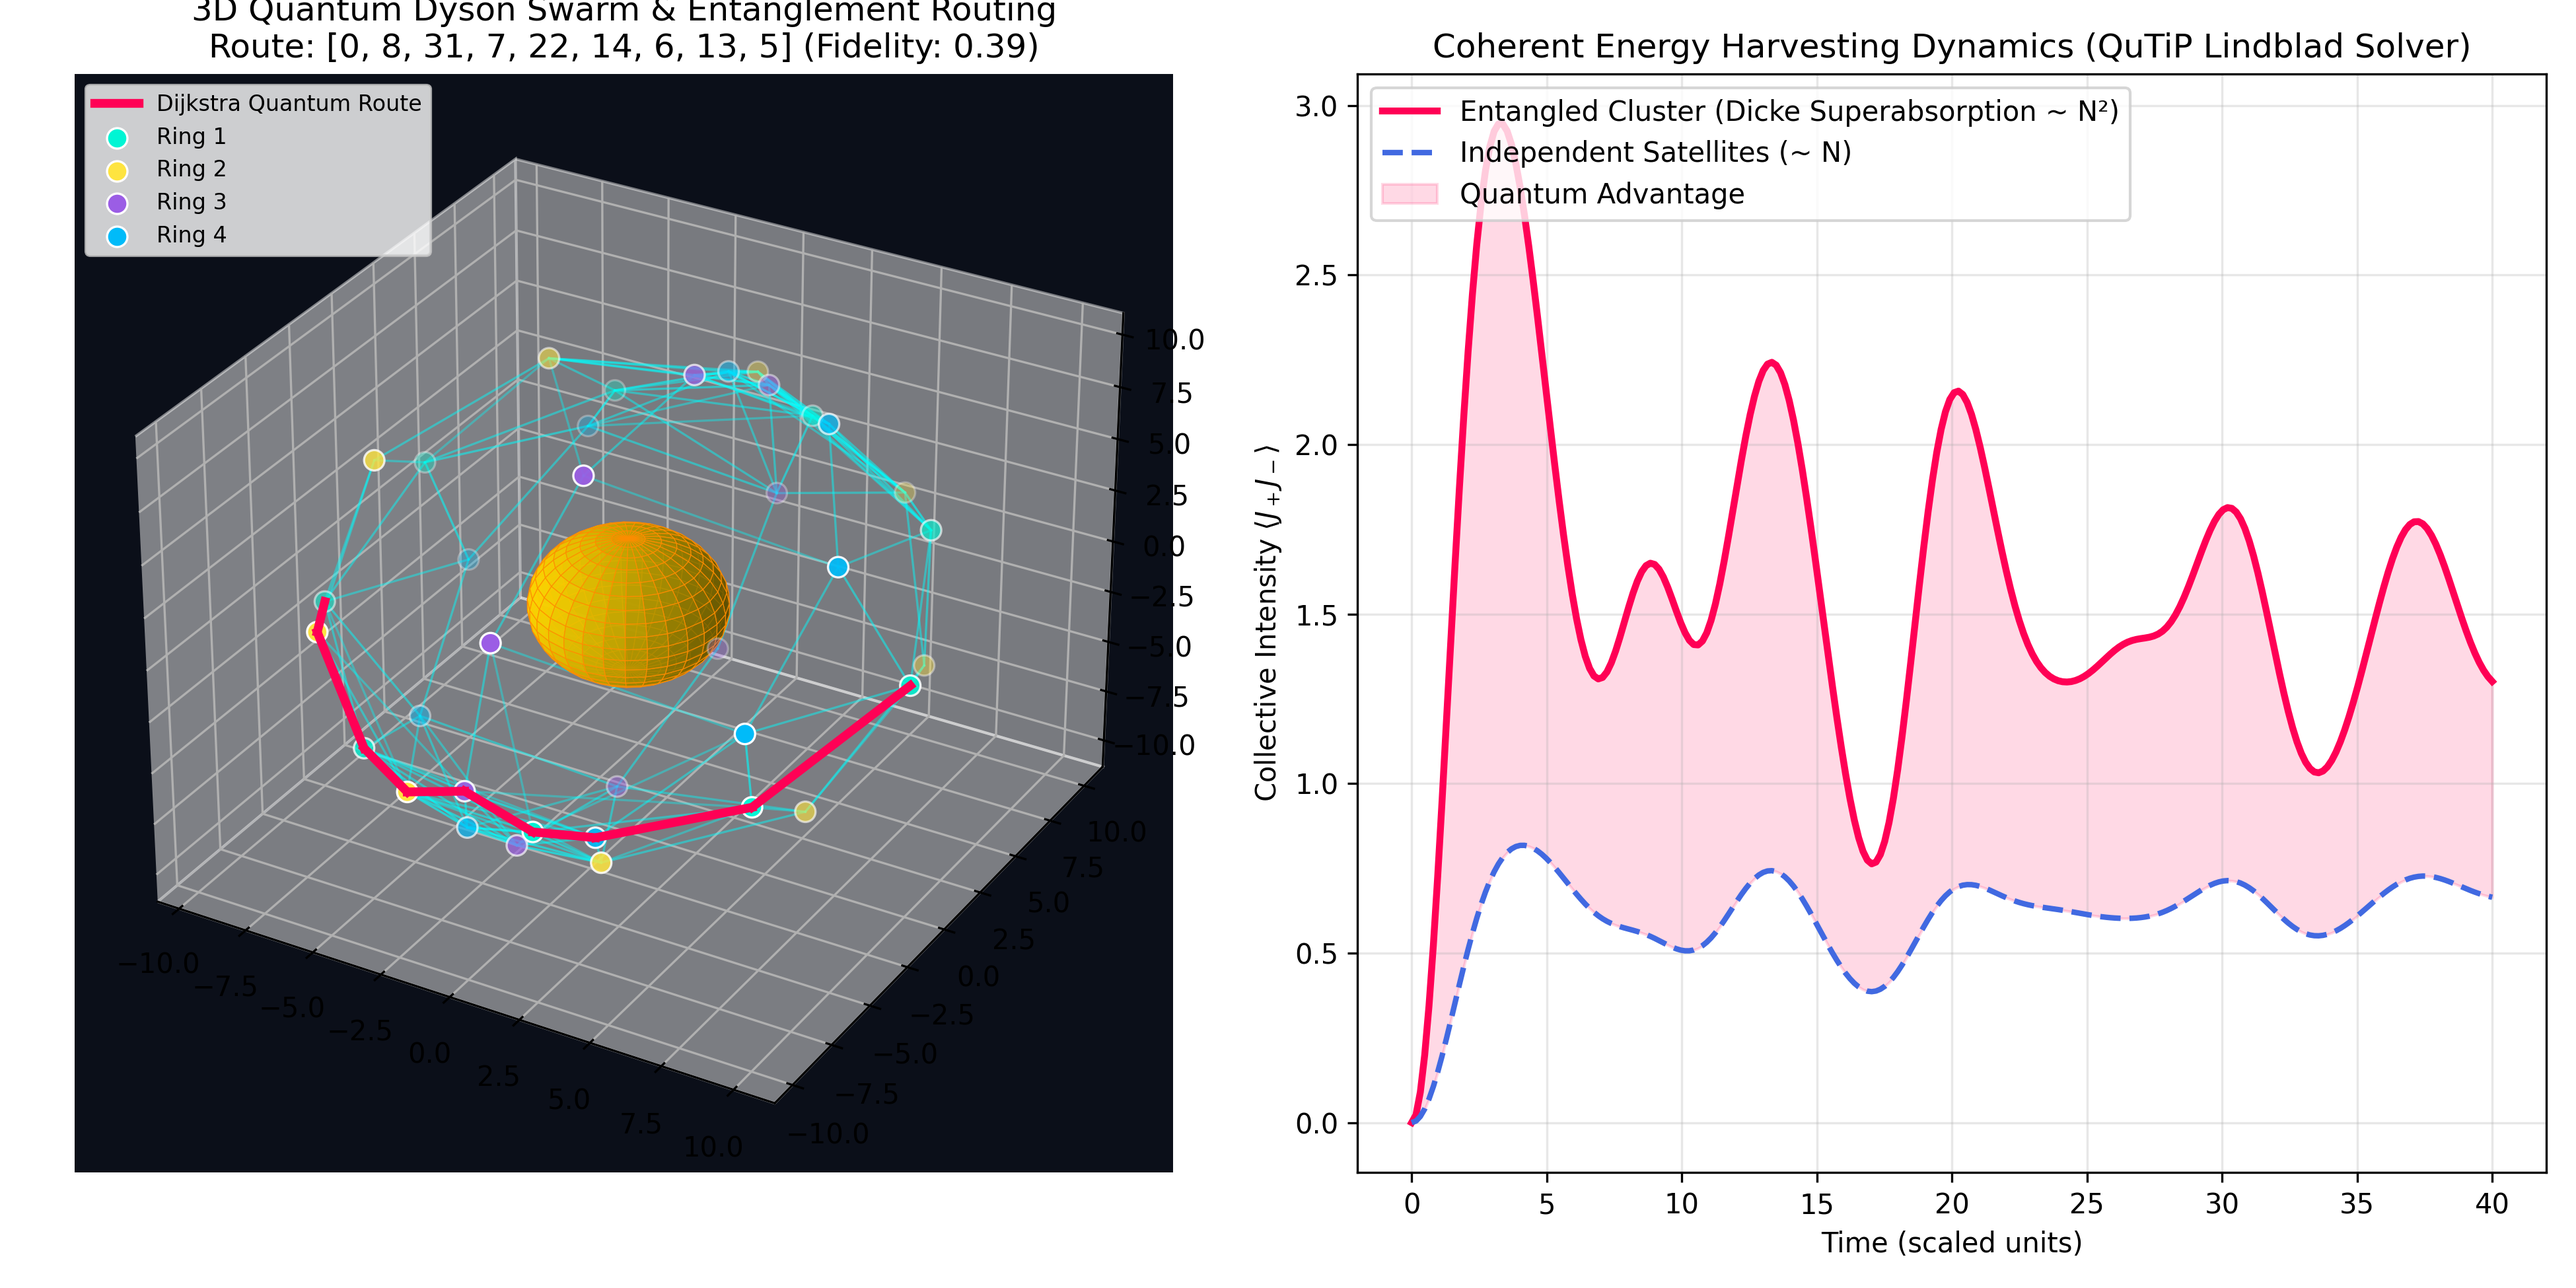
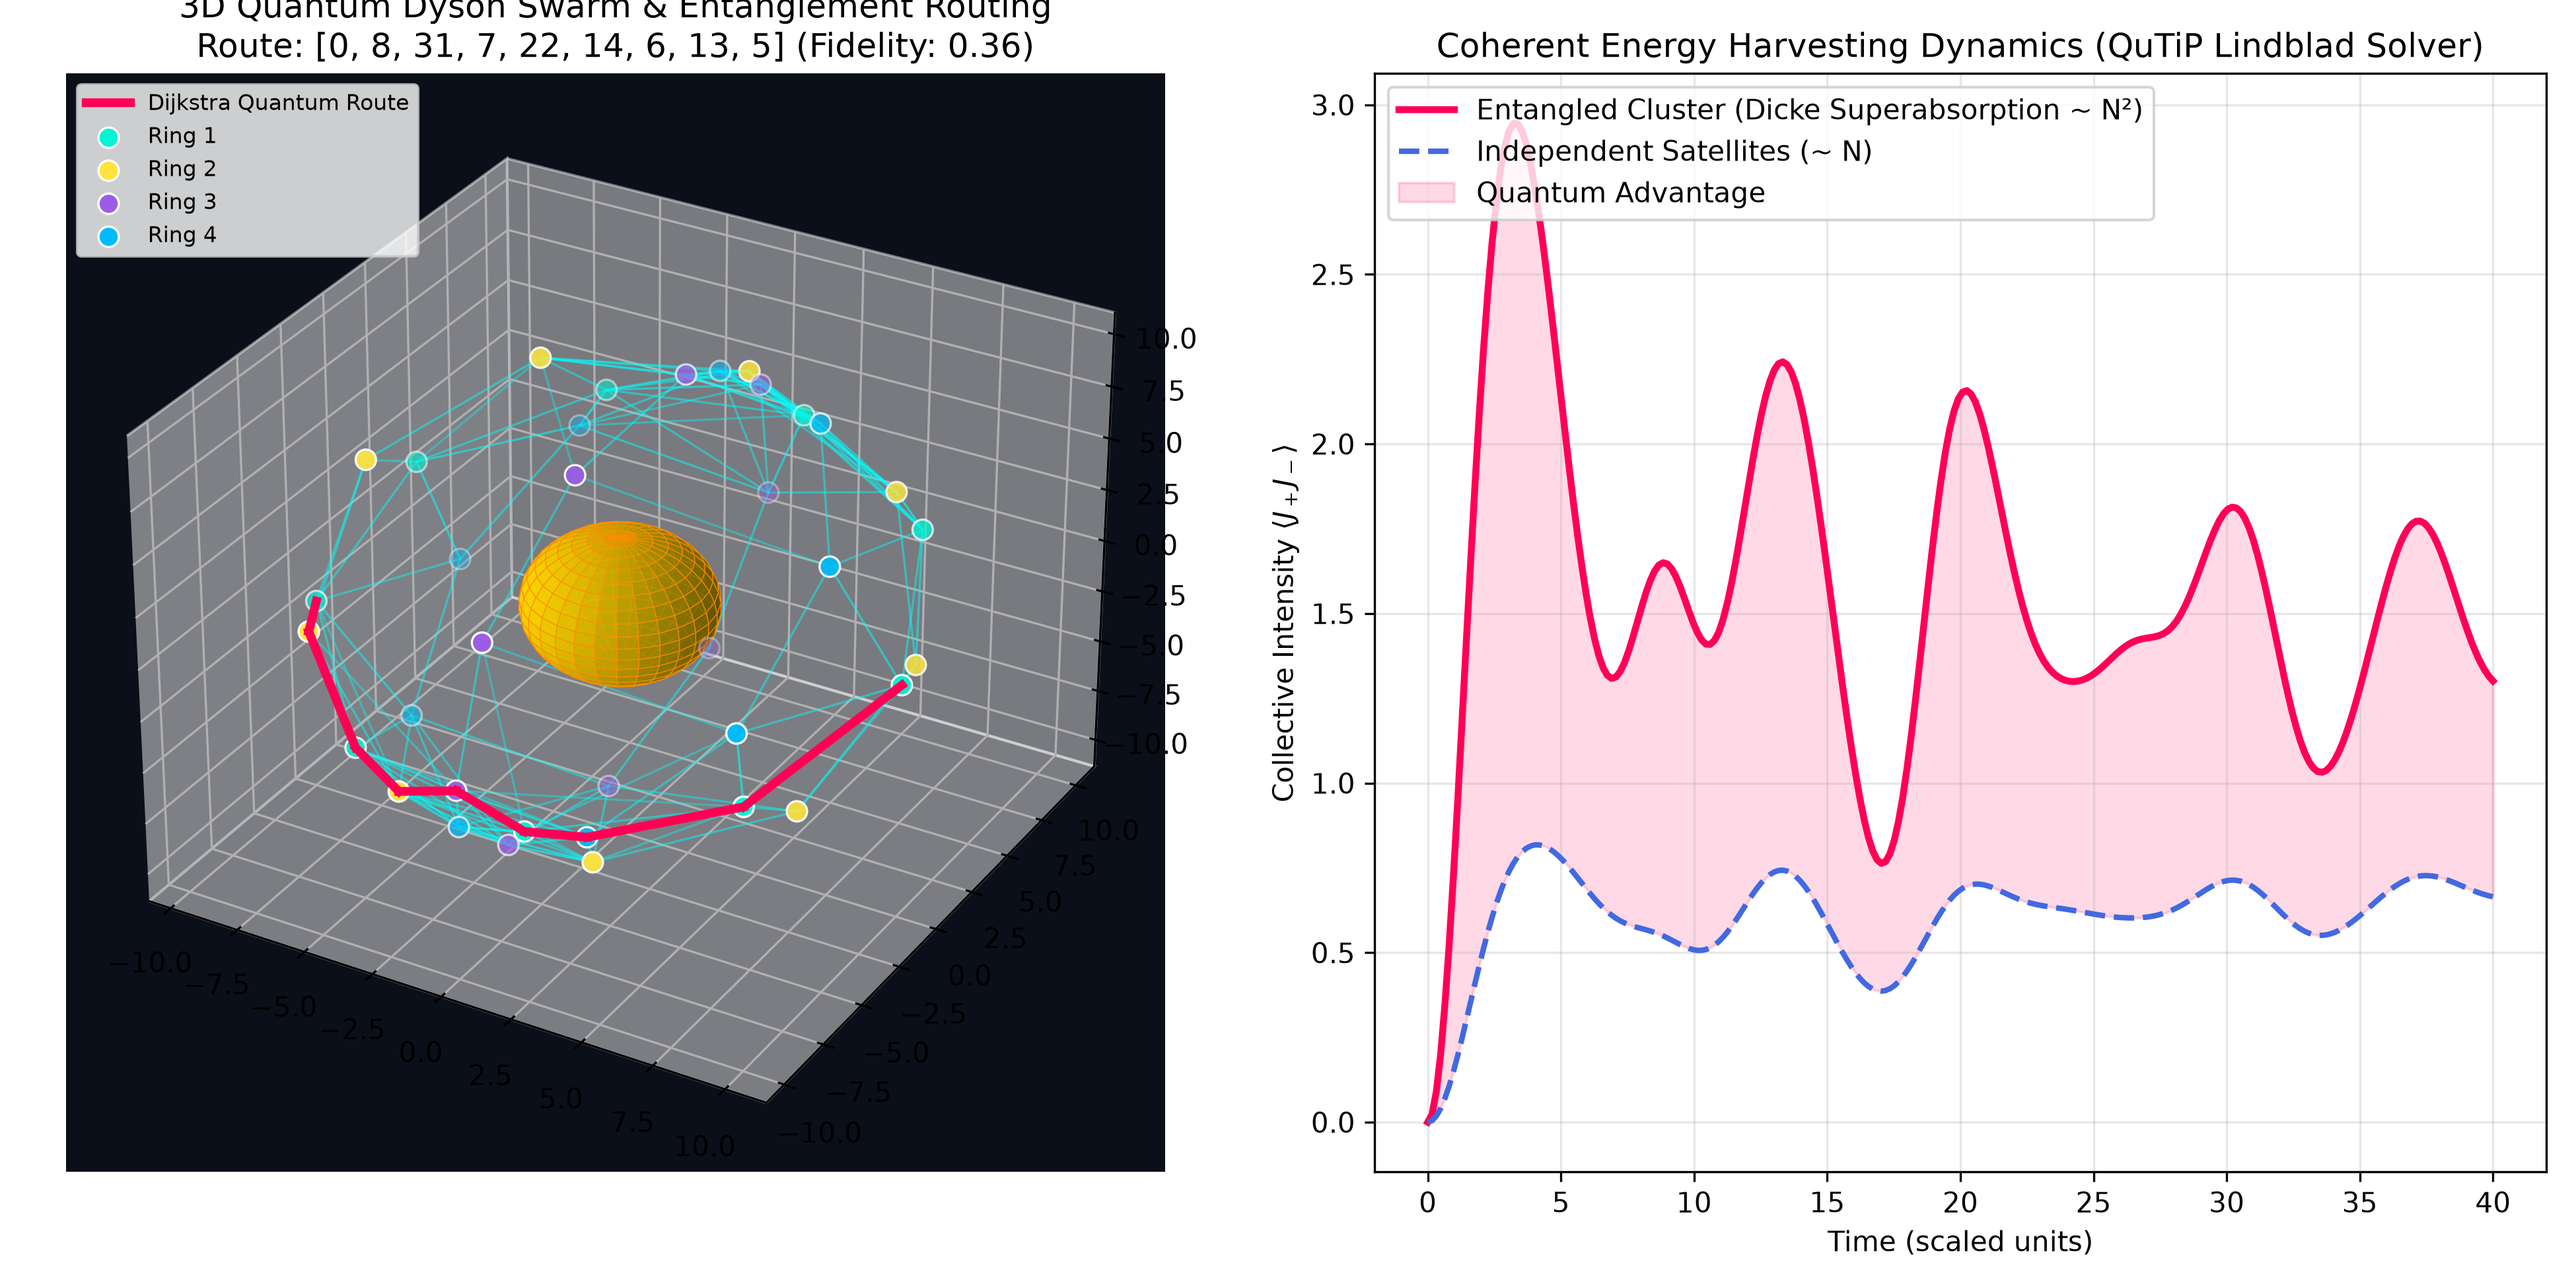
docs & ci: add live 3D T2 telemetry GIF, full physics README, and GitHub Actions CI

diff --git a/README.md b/README.md
@@ -1,0 +1,102 @@
+# 🌌 3D Quantum Dyson Swarm & Relativistic Space-Weather Entanglement Routing
+
+[![Quantum Physics & Routing CI](https://github.com/sc4nd1/quantum-dyson-swarm-3d/actions/workflows/ci.yml/badge.svg)](https://github.com/sc4nd1/quantum-dyson-swarm-3d/actions)
+![Python 3.12](https://img.shields.io/badge/Python-3.12-blue.svg)
+![QuTiP 5.0+](https://img.shields.io/badge/QuTiP-5.0%2B-purple.svg)
+![NetworkX](https://img.shields.io/badge/NetworkX-Graph_Routing-teal.svg)
+
+System-level **3D Digital Twin of a Solar Walker Megaconstellation (Dyson Swarm)** featuring **free-space optical quantum entanglement routing**, **relativistic speed-of-light ($d/c$) memory $T_2$ decoherence**, **BBPSSW Werner-state distillation**, **autonomous solar-sail coronal mass ejection (CME) evasion**, and **laser-mediated collective Dicke energy harvesting** solved via the Lindblad Master Equation in **QuTiP**.
+
+---
+
+## 🎥 Live Real-Time Simulation (X-Class Solar Flare Avoidance & $T_2$ Memory Decay)
+
+![Live 3D Quantum Dyson Swarm](figures/live_dyson_swarm.gif)
+
+*Interactive dashboard featuring real-time X-Class Solar Flare triggering, BBPSSW purification toggling, and a live `Memory T2 (s)` coherence slider.*
+
+---
+
+## 🔬 Core Physical & Mathematical Models
+
+### 1. Relativistic Quantum Dijkstra Routing & Werner State Swapping
+Each free-space optical link $(u, v)$ not occulted by the solar photosphere ($d_{\perp,\odot} > R_\odot$) is modeled as a depolarizing **Werner channel**:
+
+$$\rho_{uv}(W_{uv}) = W_{uv} \vert{}\Psi^-\rangle\langle\Psi^-\vert{} + \frac{1 - W_{uv}}{4} I_4, \qquad W_{uv} = \frac{4\mathcal{F}_{uv} - 1}{3}$$
+
+When a **Solar Flare / CME** erupts along direction $\hat{\mathbf{u}}_{\text{CME}}(t)$, plasma scattering exponentially attenuates the optical link fidelity $\mathcal{F}_{uv}(t)$. Across a multi-hop repeater chain $\mathcal{P}$ of $M$ links, the end-to-end Werner parameter accounts for both **Bell-State Measurement (BSM) entanglement swapping** and **on-board quantum memory $T_2$ dephasing** during the relativistic classical handshake time $t_{\text{wait}}$:
+
+$$W_{\text{e2e}}(T_2) = \left( \prod_{(u,v) \in \mathcal{P}} W_{uv}^{\text{eff}} \right) \cdot \exp\left( - \frac{t_{\text{wait}}}{T_2} \right), \qquad t_{\text{wait}} = \alpha_{\text{pur}} \sum_{(u,v) \in \mathcal{P}} \frac{d_{uv}}{c} + (M - 1)\, t_{\text{swap}}$$
+
+The routing engine dynamically minimizes the exact additive composite cost via **Dijkstra's algorithm**:
+
+$$w_{uv} = -\ln\left(W_{uv}^{\text{eff}}\right) + \frac{d_{uv}/c + t_{\text{swap}}}{T_2}$$
+
+This creates a realistic hardware trade-off: **high-$T_2$ quantum memories** favor multi-hop short optical links, whereas **low-$T_2$ memories** force the router to select fewer, longer hops to beat relativistic propagation latency.
+
+### 2. BBPSSW Entanglement Purification Protocol
+To prevent multi-hop fidelity $\mathcal{F}_{\text{e2e}} = (1 + 3 W_{\text{e2e}})/4$ from collapsing below the **50% Quantum Bell Threshold** ($\mathcal{F} \le 0.5$, where states become separable), each link supports nested **BBPSSW entanglement distillation** (Bennett *et al.*, *Phys. Rev. Lett.* 76, 722) via bilateral `CNOT` gates and projective measurements:
+
+$$\mathcal{F}' = \frac{\mathcal{F}^2 + \frac{1}{9}(1-\mathcal{F})^2}{\mathcal{F}^2 + \frac{2}{3}\mathcal{F}(1-\mathcal{F}) + \frac{5}{9}(1-\mathcal{F})^2} \quad \text{for } \mathcal{F} > 0.5$$
+
+### 3. Autonomous Solar-Sail CME Evasion & Station-Keeping
+Satellites intersecting the expanding CME plasma cone execute an autonomous radiation-pressure evasive maneuver ($\Delta\mathbf{r}_i$) coupled with a **Proportional-Derivative (PD) orbital station-keeping controller** ($\mathbf{F}_{\text{PD}} = -k_p \Delta\mathbf{r}_i - k_d \Delta\mathbf{v}_i$) to smoothly return to nominal Keplerian Walker formation after the storm subsides.
+
+### 4. Laser-Mediated Collective Dicke Harvesting (`QuTiP` Lindblad Solver)
+Local 5-satellite sub-clusters coupled via coherent optical cavity links (`src/quantum_dynamics.py`) are simulated under open-system Lindblad dissipation:
+
+$$\dot{\rho} = -i[H_{\text{cluster}}, \rho] + \sum_{i=1}^{N} \gamma_{\text{loss}} \mathcal{D}[\sigma_-^{(i)}]\rho, \qquad H_{\text{cluster}} = \frac{\omega_{\odot}}{2}\sum_{i=1}^N \sigma_x^{(i)} + \sum_{i < j} J_{\text{link}}\left(\sigma_+^{(i)}\sigma_-^{(j)} + \text{h.c.}\right)$$
+
+Demonstrating superradiant collective energy transfer scaling $\langle J_+ J_- \rangle \propto \mathcal{O}(N^2)$ against incoherent classical satellites $\mathcal{O}(N)$:
+
+![Static Simulation & QuTiP Dynamics](figures/dyson_swarm_simulation.png)
+
+---
+
+## ⚖ Physical Assumptions & Engineering Trade-offs
+
+To maintain real-time interactive frame rates (30–60 FPS) while preserving physical rigor, this Digital Twin adopts the following explicit modeling choices:
+
+1. **Spatial & Relativistic Scaling:** 1 simulation length unit corresponds to $R_\odot / 3.2 \approx 2.17 \times 10^5\text{ km}$. At orbital radius $R \approx 3.3\,R_\odot$, inter-satellite link distances ($1.5\text{–}3.5 \times 10^6\text{ km}$) yield genuine speed-of-light propagation delays of **$5\text{–}12\text{ s}$ per hop**, compatible with long-lived nuclear-spin or trapped-ion quantum memories ($T_2 \in [10, 150]\text{ s}$).
+2. **Coupled-Cavity Collective Regime:** Since free-space Dicke superabsorption requires sub-wavelength emitter spacing ($d \ll \lambda$), the collective Hamiltonian $H_{\text{cluster}}$ represents **cavity/waveguide-mediated dipole-dipole coupling** across phase-locked optical inter-satellite links rather than bare vacuum superradiance.
+3. **Deterministic BBPSSW Envelope:** Telemetry plots evaluate the analytical expected fidelity after post-selection with a $1.35\times$ classical handshake latency multiplier, abstracting away stochastic trial-and-error throughput penalties.
+4. **Accelerated Solar-Sail Kinematics:** Real solar-sail characteristic accelerations ($\sim \text{mm/s}^2$) require hours of advance CME warning; evasive thrust timescales are accelerated in the 3D viewport for real-time visualization.
+
+---
+
+## 📂 Repository Architecture
+
+```text
+quantum-dyson-swarm-3d/
+├── .github/workflows/
+│   └── ci.yml                  # Automated GitHub Actions CI running pytest on push
+├── src/
+│   ├── orbital_swarm.py        # 3D Walker geometry, solar occultation, d/c latency & T2 Dijkstra
+│   └── quantum_dynamics.py     # QuTiP 5+ Lindblad master equation solver for coupled clusters
+├── scripts/
+│   ├── run_simulation.py       # Static 3D constellation + QuTiP collective harvesting plot
+│   ├── run_realtime_flare.py   # Live interactive 3D dashboard (Flare button, BBPSSW toggle, T2 slider)
+│   └── export_gif.py           # Headless Pillow renderer generating figures/live_dyson_swarm.gif
+├── tests/
+│   └── test_swarm.py           # 4 automated physics, geometry & T2 decoherence unit tests
+└── figures/                    # High-resolution static benchmarks and animated GIFs
+
+---
+
+## 🚀 Quickstart & Testing
+
+```bash
+# 1. Create an isolated Python 3.12 environment and install dependencies
+uv venv --python cpython-3.12
+uv pip install -r requirements.txt
+
+# 2. Run the automated Physics, Relativistic Latency & Geometry Test Suite
+.\.venv\Scripts\python.exe -m pytest tests/test_swarm.py -v
+
+# 3. Launch the Interactive Real-Time 3D Simulator
+.\.venv\Scripts\python.exe scripts/run_realtime_flare.py
+
+# 4. Regenerate the static benchmark plot and README GIF
+.\.venv\Scripts\python.exe scripts/run_simulation.py
+.\.venv\Scripts\python.exe scripts/export_gif.py
+```
